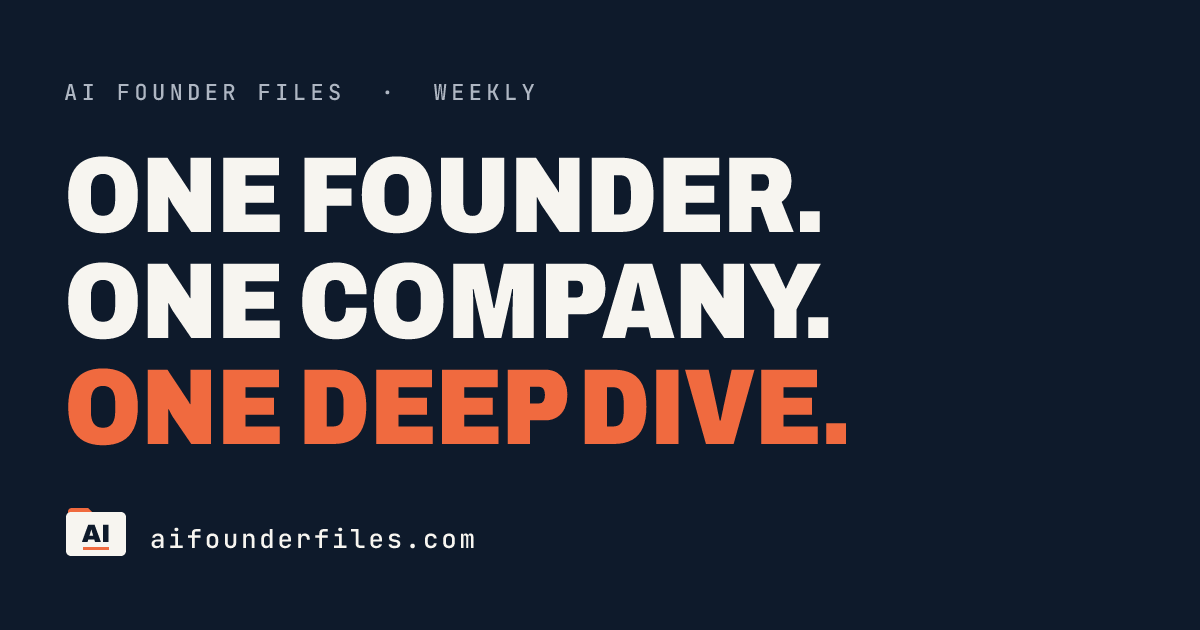
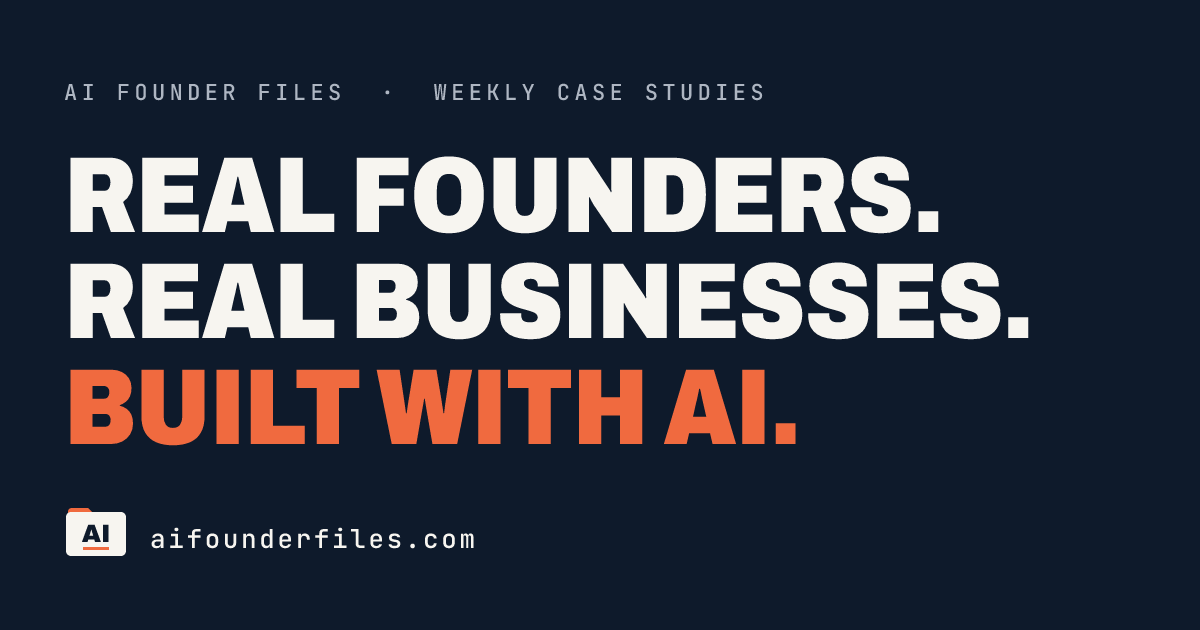
Social cards: AI angle on share images; fix broken outlined text
- Default share image (home, hubs, blog) now reads "Real founders.
  Real businesses. Built with AI." with a "Weekly case studies"
  eyebrow; manifest description and default image alt match.
- Founder-file share images carry the new H1 (name + how they use AI)
  instead of the issue title; og:image:alt matches.
- Fix scripts/lib/outline.mjs: opentype.js 2.0's toPathData() emitted
  "NaN" for some coordinates, which cut off the rest of the outlined
  text (it truncated the new default image). Paths are now serialised
  directly. Icons were not regenerated.
- Open Graph and Twitter title, description, image and alt are present
  on every page (enforced by check:seo).

diff --git a/src/pages/og/[slug].png.ts b/src/pages/og/[slug].png.ts
@@ -6,7 +6,8 @@ export const getStaticPaths = (async () => {
   const files = await getPublishedFiles();
   return files.map((f) => ({
     params: { slug: f.id },
-    props: { title: f.data.title, fileNumber: f.data.fileNumber },
+    // The share image carries the web H1 (founder's name and how they use AI), not the issue title.
+    props: { title: f.data.headline ?? f.data.title, fileNumber: f.data.fileNumber },
   }));
 }) satisfies GetStaticPaths;
 
